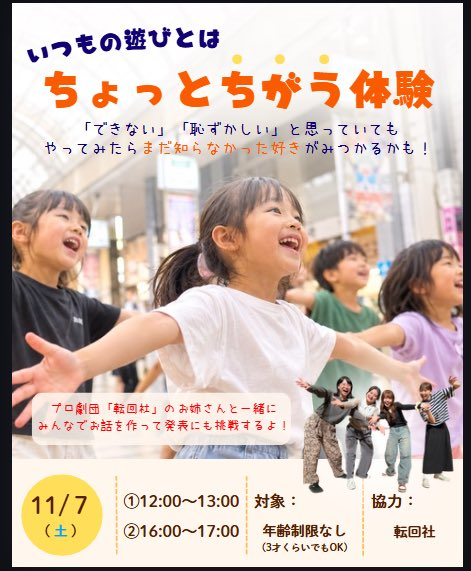
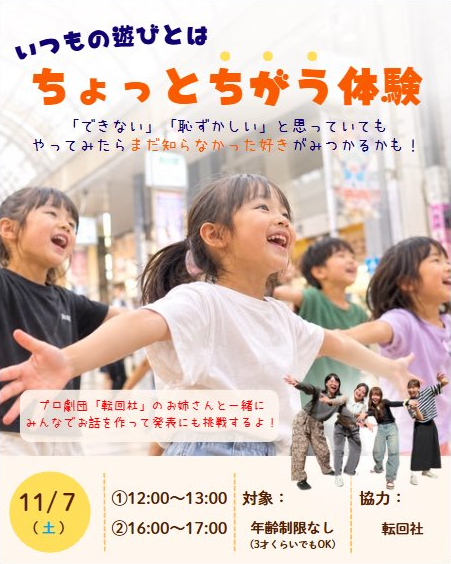
お知らせ詳細の画像レイアウトとサイドバー公演日時の行間を整える。
案内PNGの黒余白をトリミングし、枠線なし・中央寄せ・余白を反映する。

diff --git a/src/styles/global.css b/src/styles/global.css
@@ -1693,7 +1693,7 @@ a.card:focus-visible {
   font-weight: 800;
   font-feature-settings: "palt" 1;
   letter-spacing: 0.04em;
-  line-height: 1.15;
+  line-height: 1.4;
   margin-top: 0;
   text-decoration: underline;
   text-underline-offset: 0.12em;
@@ -8178,6 +8178,20 @@ a.perf-history__date--link {
   display: block;
   max-width: 100%;
   height: auto;
+  margin-inline: auto;
+  border: none;
+}
+
+.news-detail .news-detail__prose p:has(> img:only-child) {
+  margin-block: clamp(32px, 4.5vw, 56px);
+}
+
+.news-detail .news-detail__prose > :first-child :is(img, picture) {
+  max-width: min(68%, 440px);
+}
+
+.news-detail .news-detail__prose p:has(> img:only-child) + * {
+  margin-top: 2.5em;
 }
 
 .news-detail__actions {
@@ -8355,6 +8369,7 @@ a.perf-history__date--link {
   font-weight: 800;
   font-feature-settings: "palt" 1;
   letter-spacing: 0.05em;
+  line-height: 1.4;
   text-decoration: underline;
   text-underline-offset: 0.15em;
 }
